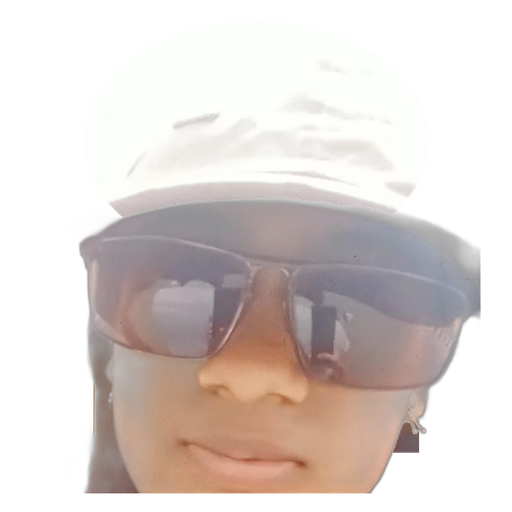
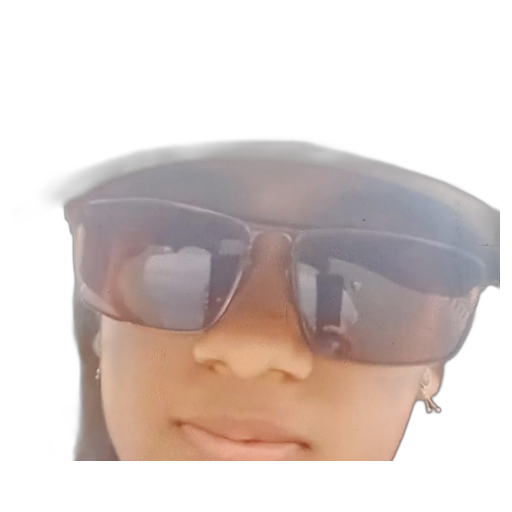
feat: tight face-focused crops with 100% transparent backgrounds

diff --git a/src/data/contribute-store.js b/src/data/contribute-store.js
@@ -96,11 +96,11 @@ export const BUILTIN_MEDIA = [
 
 // ─── 3. Default Built-In Stickers for Sticker Corner ─────────────────────────
 export const BUILTIN_STICKERS = [
-  { id: 'st_1', emoji: '👑', url: '/images/faces/avatar-happy.png', imageUrl: '/images/faces/avatar-happy.png', caption: 'Level 19 Princess 👑💖', author: 'Your Brother ❤', color: '#ffd93b' },
-  { id: 'st_2', emoji: '😎', url: '/images/faces/avatar-cool.png', imageUrl: '/images/faces/avatar-cool.png', caption: 'Swag Queen Muski 😎', author: 'Your Brother ❤', color: '#5ee0ff' },
-  { id: 'st_3', emoji: '♨', url: '/images/faces/avatar-grumpy.png', imageUrl: '/images/faces/avatar-grumpy.png', caption: 'Cooker Anger Mode! ♨😂', author: 'Meme Corner 🤣', color: '#ff4d4d' },
-  { id: 'st_4', emoji: '🥺', url: '/images/faces/avatar-surprised.png', imageUrl: '/images/faces/avatar-surprised.png', caption: 'Fish-Face Pout 🥺✨', author: 'Family ❤', color: '#ff80bf' },
-  { id: 'st_5', emoji: '🌸', url: '/images/faces/avatar-default.png', imageUrl: '/images/faces/avatar-default.png', caption: 'Sweetest Smile 🌸', author: 'Birthday Crew ✨', color: '#ff6eb4' },
+  { id: 'st_1', emoji: '👑', url: '/images/faces/avatar-happy.png?v=tight_nobg_v4', imageUrl: '/images/faces/avatar-happy.png?v=tight_nobg_v4', caption: 'Level 19 Princess 👑💖', author: 'Your Brother ❤', color: '#ffd93b' },
+  { id: 'st_2', emoji: '😎', url: '/images/faces/avatar-cool.png?v=tight_nobg_v4', imageUrl: '/images/faces/avatar-cool.png?v=tight_nobg_v4', caption: 'Swag Queen Muski 😎', author: 'Your Brother ❤', color: '#5ee0ff' },
+  { id: 'st_3', emoji: '♨', url: '/images/faces/avatar-grumpy.png?v=tight_nobg_v4', imageUrl: '/images/faces/avatar-grumpy.png?v=tight_nobg_v4', caption: 'Cooker Anger Mode! ♨😂', author: 'Meme Corner 🤣', color: '#ff4d4d' },
+  { id: 'st_4', emoji: '🥺', url: '/images/faces/avatar-surprised.png?v=tight_nobg_v4', imageUrl: '/images/faces/avatar-surprised.png?v=tight_nobg_v4', caption: 'Fish-Face Pout 🥺✨', author: 'Family ❤', color: '#ff80bf' },
+  { id: 'st_5', emoji: '🌸', url: '/images/faces/avatar-default.png?v=tight_nobg_v4', imageUrl: '/images/faces/avatar-default.png?v=tight_nobg_v4', caption: 'Sweetest Smile 🌸', author: 'Birthday Crew ✨', color: '#ff6eb4' },
 ];
 
 // ─── 4. Storage Helpers (localStorage with IndexedDB fallback) ───────────────

diff --git a/src/ui/avatar.js b/src/ui/avatar.js
@@ -35,14 +35,14 @@ export const RETRO_PALETTE_HEX = [
 ];
 
 export const BUILTIN_CARTOON_AVATARS = {
-  default:   '/images/faces/avatar-default.png?v=nobg_v3',
-  happy:     '/images/faces/avatar-happy.png?v=nobg_v3',
-  cool:      '/images/faces/avatar-cool.png?v=nobg_v3',
-  grumpy:    '/images/faces/avatar-grumpy.png?v=nobg_v3',
-  surprised: '/images/faces/avatar-surprised.png?v=nobg_v3',
-  wink:      '/images/faces/avatar-wink.png?v=nobg_v3',
-  laugh:     '/images/faces/avatar-laugh.png?v=nobg_v3',
-  star_eyes: '/images/faces/avatar-star_eyes.png?v=nobg_v3',
+  default:   '/images/faces/avatar-default.png?v=tight_nobg_v4',
+  happy:     '/images/faces/avatar-happy.png?v=tight_nobg_v4',
+  cool:      '/images/faces/avatar-cool.png?v=tight_nobg_v4',
+  grumpy:    '/images/faces/avatar-grumpy.png?v=tight_nobg_v4',
+  surprised: '/images/faces/avatar-surprised.png?v=tight_nobg_v4',
+  wink:      '/images/faces/avatar-wink.png?v=tight_nobg_v4',
+  laugh:     '/images/faces/avatar-laugh.png?v=tight_nobg_v4',
+  star_eyes: '/images/faces/avatar-star_eyes.png?v=tight_nobg_v4',
 };
 
 // Convert hex palette to RGB triplets for Euclidean distance color quantization
